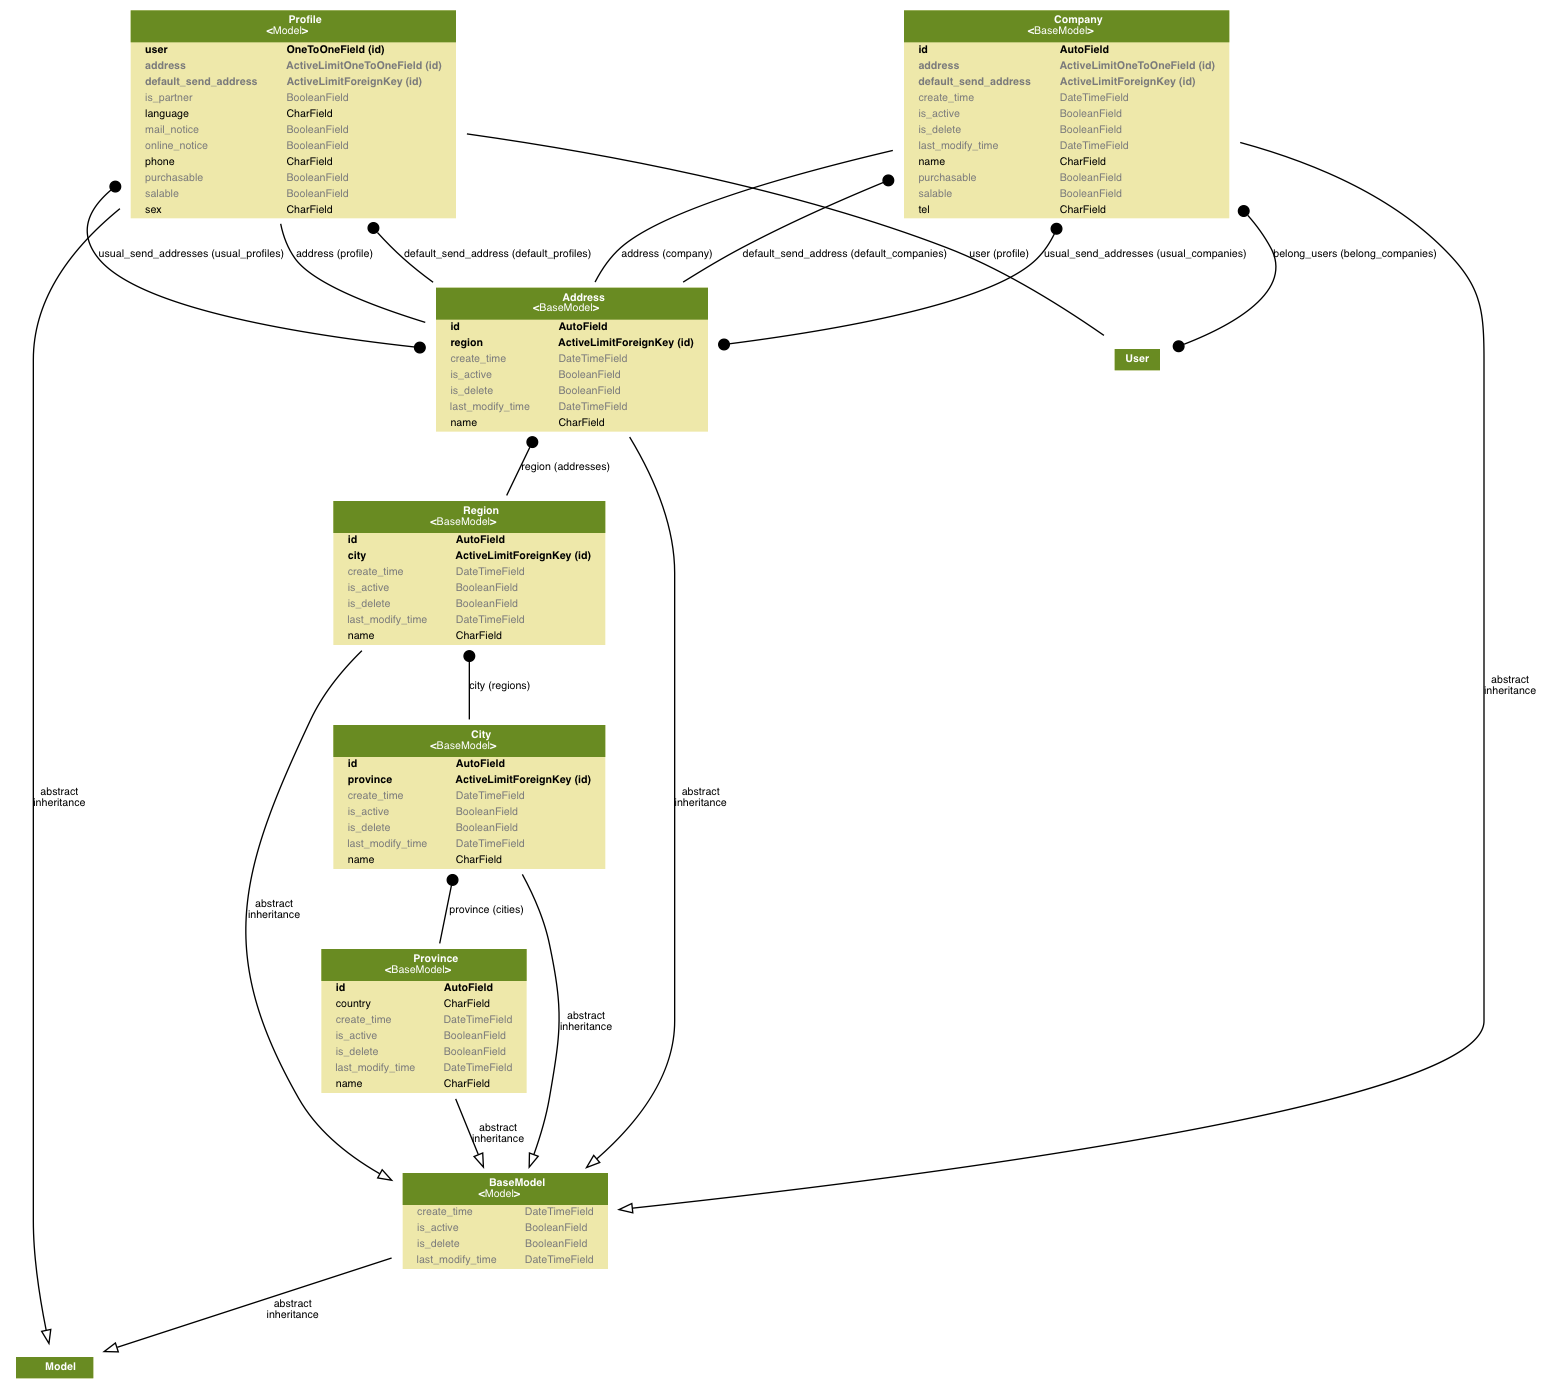
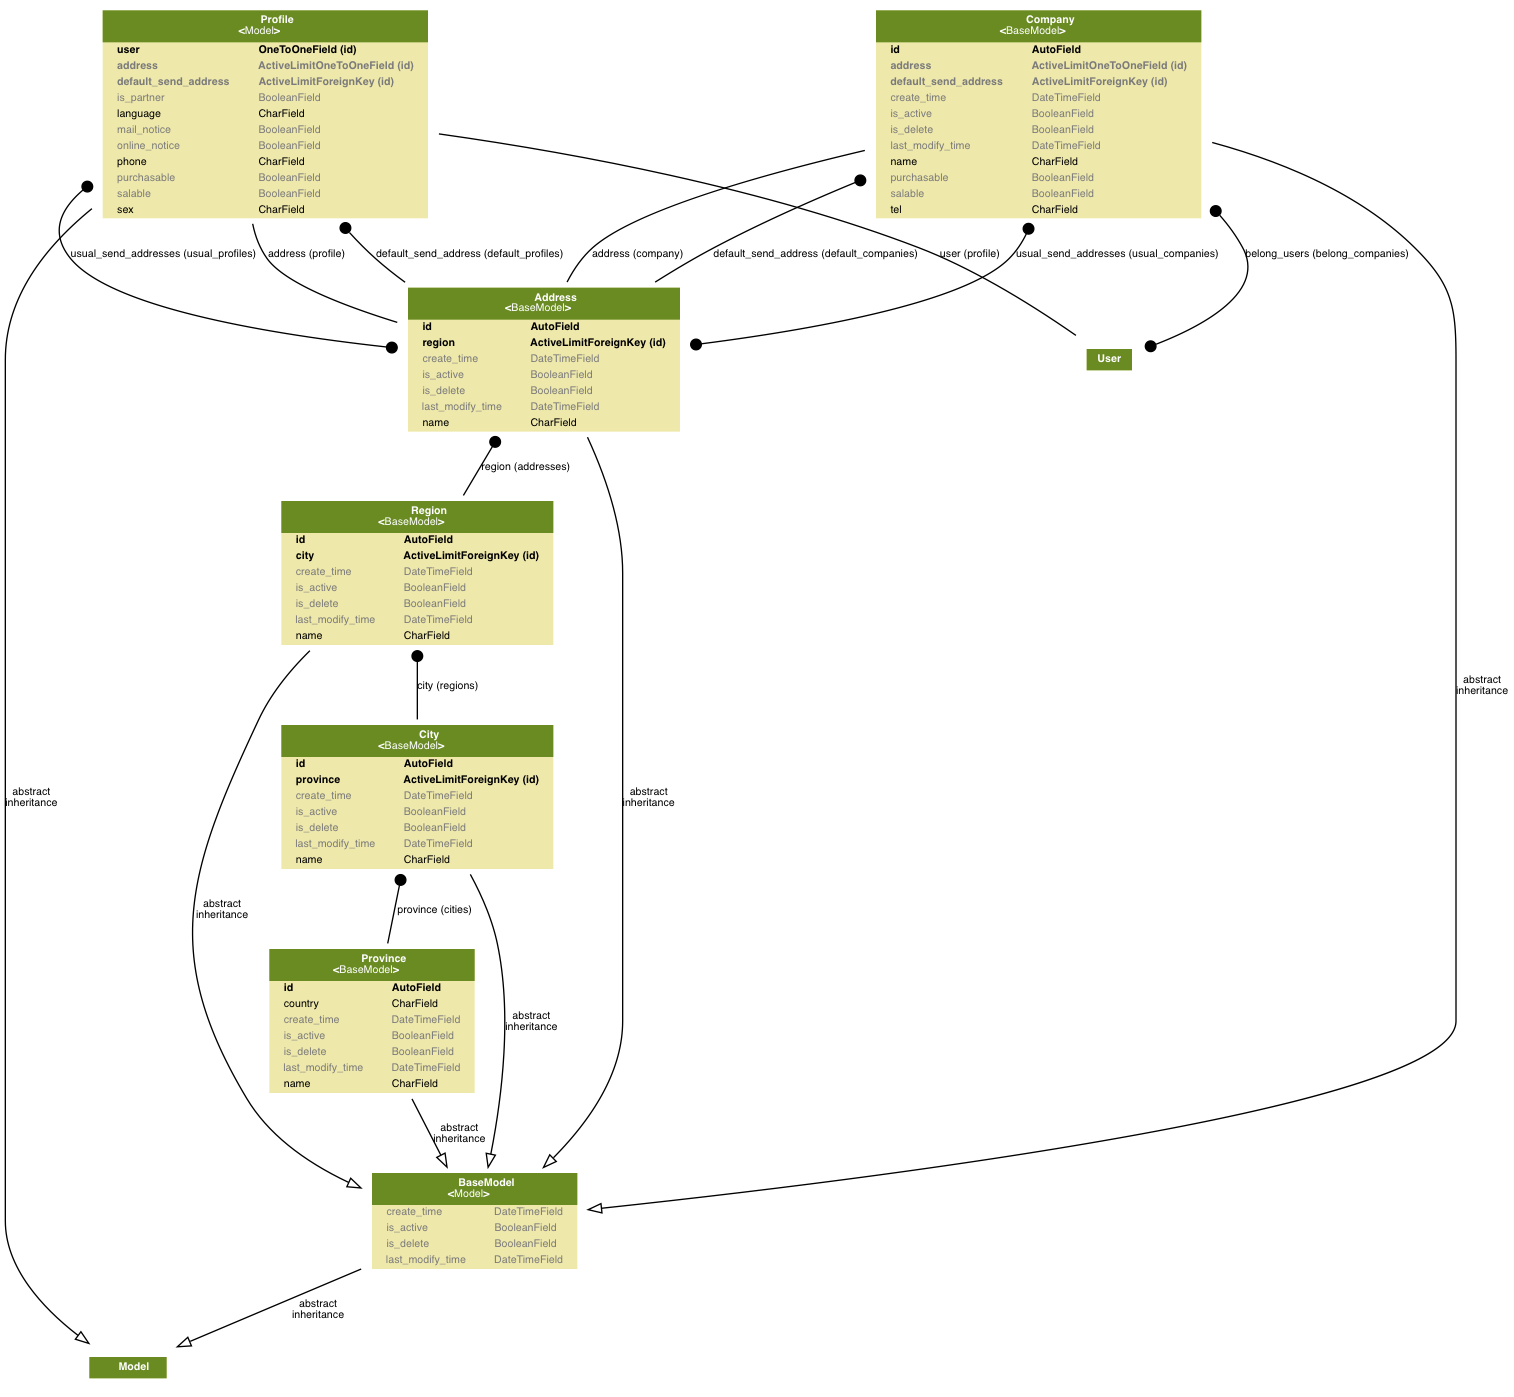
modify product validate method

diff --git a/product/models.py b/product/models.py
@@ -170,6 +170,8 @@ class Validation(BaseModel):
     actions = ActiveLimitManyToManyField(
         'product.ValidateAction',
         blank=False,
+        verbose_name='验货动作',
+        related_name='validations',
         help_text="对某产品所需执行的所有验货动作"
     )
 
@@ -180,62 +182,46 @@ class Validation(BaseModel):
         verbose_name = '产品验货配置'
         verbose_name_plural = '产品验货配置'
 
+    @property
+    def validators(self):
+        return {action.symbol: action.validator for action in self.actions}
 
-class ValidationActionSetting(models.Model):
-    '''产品动作配置'''
-    validation = ActiveLimitForeignKey(
-        'product.Validation',
-        null=False,
-        blank=False,
-        verbose_name='产品验货配置',
-        related_name='action_settings',
-        help_text="动作配置所属的验货配置"
-    )
-
-    action = ActiveLimitForeignKey(
-        'product.ValidateAction',
-        null=False,
-        blank=False,
-        verbose_name='验货动作',
-        related_name='action_settings',
-        help_text="动作配置所绑定的验货动作"
-    )
-
-    arguments = models.JSONField(
-        '动作参数',
-        null=False,
-        blank=False,
-        json_type='dict',
-        default={},
-        help_text="验货动作执行时,参考的动作参数"
-    )
-
-    class Meta:
-        verbose_name = '产品动作配置'
-        verbose_name_plural = '产品动作配置'
-        unique_together = ('validation','action')
-
-    def __str__(self):
-        return '{}-{}'.format(self.validation,self.action)
-
-    def validate_arguments(self):
-        '''
-        判断配置的参数arguments的所有键是否均属于action对应的arguments键，
-        判断配置的参数arguments的所有值是否均属于action对应的arguments值
-        :return: True／False
-        '''
-        return all(
-            choice in self.action.arguments[key]
-            for key,choice in self.arguments
-        ) and self.arguments.keys() == self.action.arguments.keys()
+    def is_valid(self, data):
+        '''根据定义的验证动作验证传入的data参数,并返回验证结果'''
+        validators = self.validators
+        if validators.keys() == data.keys():
+            self.validated_data = {}
+            self.errors = {}
+            is_valid = True
+            for symbol, value in data.items():
+                validator = validators[symbol]
+                validator(data={'value': value})
+                if validator.is_valid():
+                    self.validated_data[symbol] = validator.validated_data['value']
+                else:
+                    self.errors[symbol] = validator.errors['value']
+                    is_valid = False
+            return is_valid
+        return False
 
 
 class ValidateAction(BaseModel):
     '''产品验货动作'''
+    symbol = models.CharField(
+        '内部符号',
+        null=False,
+        blank=False,
+        max_length=40,
+        primary_key=True,
+        help_text="动作所要执行的验货器的名称"
+    )
+
     name = models.CharField(
         '验货动作名',
+        null=False,
+        blank=False,
+        unique=True,
         max_length=190,
-        primary_key=True,
         help_text="某类产品在验货时需要进行的验货动作"
     )
 
@@ -248,22 +234,26 @@ class ValidateAction(BaseModel):
         help_text="对产品验货时针对的单位"
     )
 
-    arguments = models.JSONField(
-        '动作参数',
+    explain = models.TextField(
+        '解释',
         null=False,
         blank=False,
-        json_type='dict',
-        default={},
-        help_text="验货动作执行时,参考的动作参数"
+        help_text="动作的含义解释"
     )
 
     def __str__(self):
-        return '{}({})'.format(self.name,self.uom)
+        return '{}({})'.format(self.symbol, self.uom)
 
     class Meta:
         verbose_name = '验货动作'
         verbose_name_plural = '验货动作'
 
+    @property
+    def validator(self):
+        from . import validators
+        if self.symbol in validators.__all__:
+            return getattr(validators, self.symbol, None)
+        return None
 
 
 class ProductTemplate(BaseModel):
@@ -325,13 +315,20 @@ class ProductTemplate(BaseModel):
         help_text="产品的外部说明"
     )
 
-    category = models.ForeignKey(
+    category = ActiveLimitForeignKey(
         'product.ProductCategory',
         null=True,
         blank=True,
-        on_delete=models.PROTECT,
         verbose_name='产品种类',
         help_text="产品的分类"
+    )
+
+    validation = ActiveLimitForeignKey(
+        'product.Validation',
+        null=True,
+        blank=False,
+        verbose_name='产品验证器',
+        help_text="产品验货时执行的验证器"
     )
 
     class Meta:
@@ -339,7 +336,7 @@ class ProductTemplate(BaseModel):
         verbose_name_plural = '产品模板'
 
     def __str__(self):
-        self.name
+        return self.name
 
     @property
     def attribute_combination(self):

diff --git a/product/serializers.py b/product/serializers.py
@@ -83,32 +83,16 @@ class LotSerializer(ActiveModelSerializer):
 
 
 class ValidateActionSerializer(ActiveModelSerializer):
-    arguments = serializers.DictField(
-        child=serializers.ListField(
-            child=serializers.CharField(max_length=190, trim_whitespace=True),
-            read_only=True
-        ),
-        read_only=True
-    )
+    symbol = serializers.ReadOnlyField()
+    uom = serializers.ReadOnlyField()
 
     class Meta:
         model = models.ValidateAction
-        fields = ('name', 'uom', 'arguments')
-
-
-class ValidationActionSettingSerializer(serializers.ModelSerializer):
-    action_detail = ValidateActionSerializer(source='action', read_only=True)
-    arguments = serializers.DictField(
-        child=serializers.CharField(max_length=190, trim_whitespace=True)
-    )
-
-    class Meta:
-        model = models.ValidationActionSetting
-        fields = ('validation', 'action', 'arguments')
+        fields = ('symbol','name', 'uom', 'explain')
 
 
 class ValidationSerializer(ActiveModelSerializer):
-    actions_detail = ValidationActionSettingSerializer(source='action', read_only=True, many=True)
+    actions_detail = ValidateActionSerializer(source='actions', read_only=True, many=True)
 
     class Meta:
         model = models.Validation

diff --git a/product/admin.py b/product/admin.py
@@ -17,12 +17,6 @@ class LotInline(CommonTabInLine):
         (None,{'fields':('name',)}),
     )
 
-class ValidationActionSettingInline(CommonTabInLine):
-    model=models.ValidationActionSetting
-    fieldsets = (
-        (None,{'fields':('validation','action','arguments')}),
-    )
-
 @admin.register(models.ProductCategory)
 class ProductCategoryAdmin(CommonAdmin):
     list_display = ('name','sequence')
@@ -108,14 +102,14 @@ class ProductAdmin(CommonAdmin):
 
 @admin.register(models.ValidateAction)
 class ValidationActionAdmin(CommonAdmin):
-    list_display = ('name','uom','arguments')
+    list_display = ('symbol','name','uom','explain')
     list_filter = ('uom',)
     search_fields = ('name',)
-    list_editable = list_filter
-    list_display_links = search_fields
+    list_editable = ('name','uom')
+    list_display_links = ('symbol',)
     fieldsets = (
         (None,{'fields':(
-            'name','uom','arguments'
+            ('symbol','name'),'uom','explain'
         )}),
     )
 
@@ -129,8 +123,4 @@ class ValidationAdmin(CommonAdmin):
             'name','actions'
         )}),
     )
-    inlines = (
-        ValidationActionSettingInline,
-    )
-
 

diff --git a/product/views.py b/product/views.py
@@ -3,7 +3,7 @@
 
 from . import models
 from . import serializers
-from common.rest.viewsets import BaseViewSet,PermMethodViewSet
+from common.rest.viewsets import BaseViewSet, PermMethodViewSet
 from rest_framework import viewsets, status, permissions
 from rest_framework.response import Response
 
@@ -42,10 +42,6 @@ class ValidateActionViewSet(BaseViewSet):
     model = models.ValidateAction
     serializer_class = serializers.ValidateActionSerializer
 
-class ValidationActionSettingViewSet(PermMethodViewSet):
-    model = models.ValidationActionSetting
-    allow_actions = ('create', 'list', 'retrieve', 'update')
-    serializer_class = serializers.ValidationActionSettingSerializer
 
 class ValidationViewSet(BaseViewSet):
     model = models.Validation

diff --git a/product/urls.py b/product/urls.py
@@ -12,7 +12,6 @@ router.register(r'template',views.ProductTemplateViewSet,'template')
 router.register(r'product',views.ProductViewSet,'product')
 router.register(r'lot',views.LotViewSet,'lot')
 router.register(r'validate-action',views.ValidateActionViewSet,'validate_action')
-router.register(r'validation-action-setting',views.ValidationActionSettingViewSet,'validation_action_setting')
 router.register(r'validation',views.ValidationViewSet,'validation')
 
 urlpatterns = router.urls

diff --git a/product/validators.py b/product/validators.py
@@ -1,0 +1,5 @@
+#!/usr/bin/env python3
+# -*- coding:utf-8 -*-
+
+__all__ = ('test',)
+
